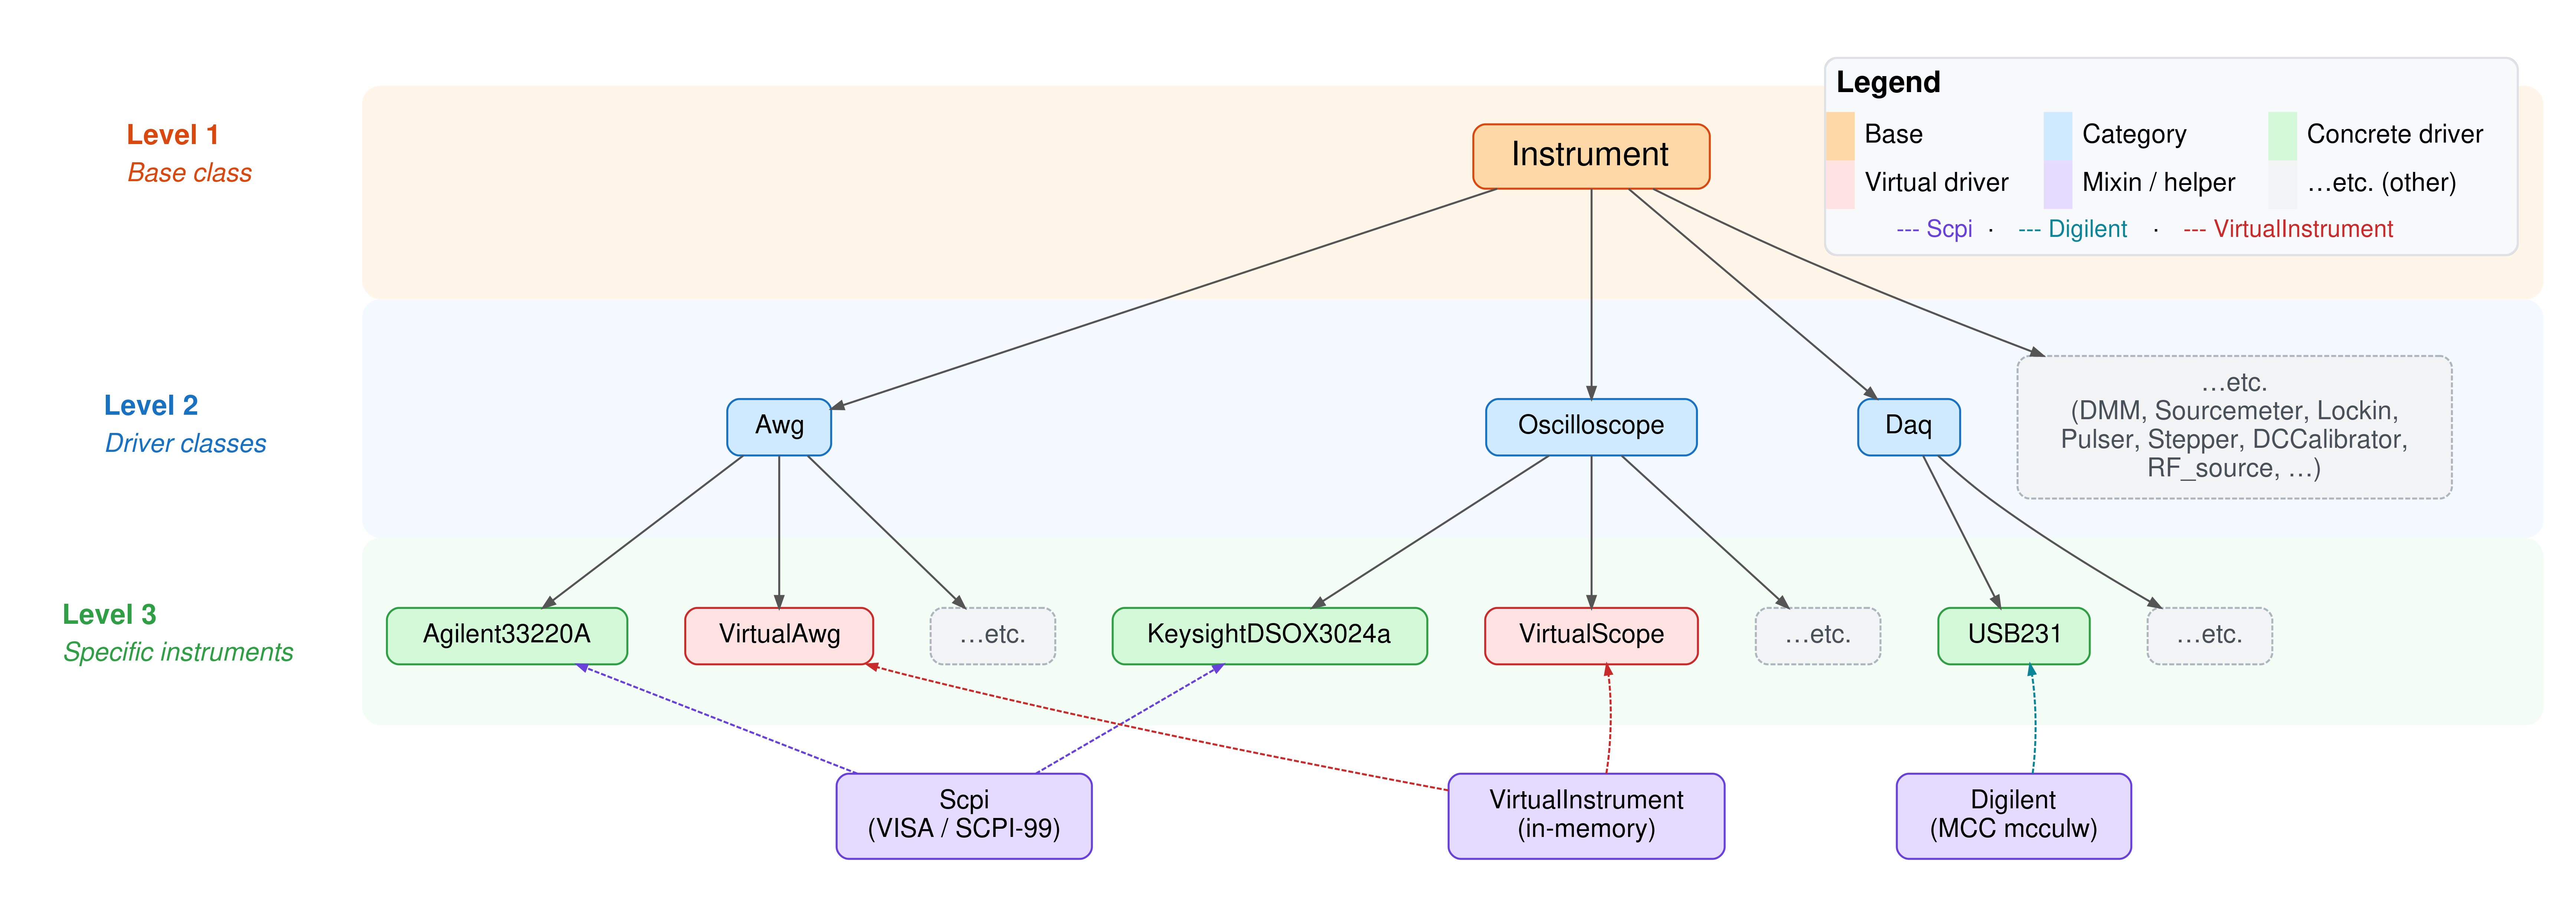
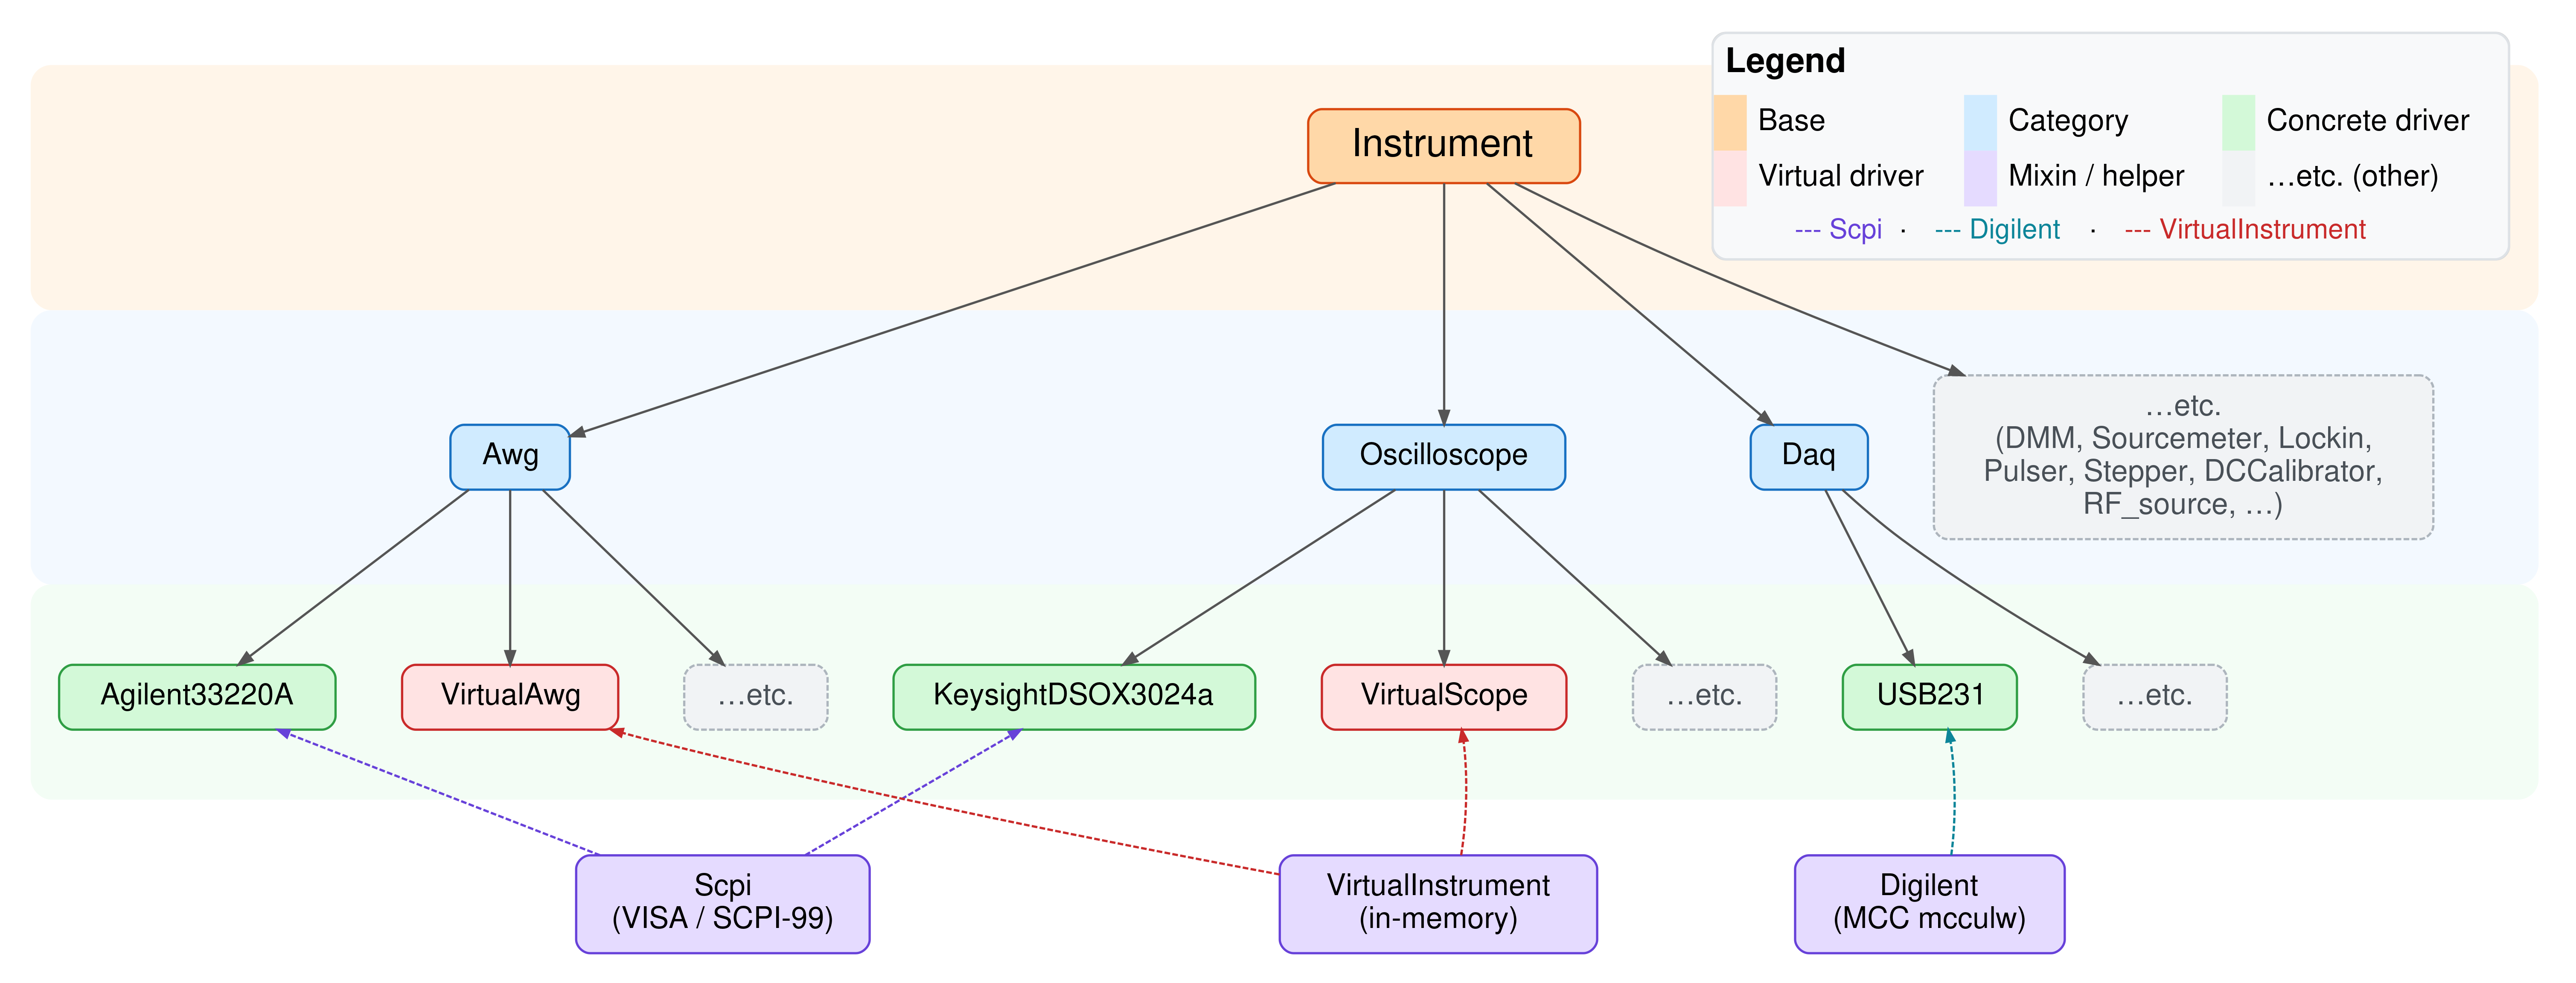
My final paper edits

diff --git a/paper.md b/paper.md
@@ -44,7 +44,7 @@ The common measurement workflow of a ferroelectric hysteresis loop highlights th
 
 # State of the Field
 
-The landscape of laboratory automation is dominated by commercial platforms such as LabVIEW [@LabVIEW], which are widely deployed across experimental physics and materials science laboratories. While powerful, these solutions rely on proprietary programming environments and require licenses, making them cost-restrictive, inflexible, and difficult to integrate with modern version-control and data-science workflows.
+The landscape of laboratory automation is dominated by commercial platforms such as LabVIEW [@LabVIEW], which are widely deployed across experimental laboratories. While powerful, these solutions rely on proprietary programming environments and require licenses, making them cost-restrictive, inflexible, and difficult to integrate with modern version-control and custom automated workflows.
 
 In the open-source ecosystem, several Python-based tools have emerged to address these limitations. General-purpose packages like PyMeasure [@PyMeasure_Developers_PyMeasure] and QCoDeS [@qcodes] provide extensive libraries of instrument wrappers, parameter validation, and sweep automation. Within specific subfields, targeted packages such as Hardware-Control [@Giesbrecht2022] and EKPY [@Parsonnet_ekpy] have been developed to handle automated testing and analysis for specific instrumentation, focusing on beamline and ferroelectric measurements respectively.
 
@@ -70,9 +70,9 @@ On top of this three-level standardized instrument control, within `piec.measure
 
 Finally, in the top-level Measurement repository, GUIs are provided using a class in ‘piec.measurement.gui_utils.py’ which leverages tkinter and Matplotlib [@hunter2007matplotlib], as well as python notebooks where the measurement and driver classes can be run directly. Useful background on measurements is included in the notebooks as well as markdown files in the same directory.
 
-The layered architecture means that a researcher can work at whatever level their experiment requires, whether that is coding driver methods for new setups, creating `Measurement` classes for running experiments, or using the pre-existing graphical interfaces for routine tasks without writing code. Throughout the workflow, standard Python packages such as NumPy [@harris2020array], and Pandas [@the_pandas_development_team_2026_19340003].
+The layered architecture means that a researcher can work at whatever level their experiment requires, whether that is coding driver methods for new setups, creating `Measurement` classes for running experiments, or using the pre-existing graphical interfaces for routine tasks without writing code. Standard Python packages such as NumPy [@harris2020array], and Pandas [@the_pandas_development_team_2026_19340003] are used throughout the workflow.
 
-In the case that an instrument isn't supported or a new measurement class is needed, extending `PIEC` only requires implementing a driver subclass alongside its `VirtualInstrument`, and adding a new experiment type requires implementing a `Measurement` subclass, without modifying other existing code.
+In the case that an instrument isn't supported or a new measurement class is needed, extending `PIEC` only requires implementing a driver subclass alongside its `VirtualInstrument`, or adding a new experiment type requires implementing a `Measurement` subclass, respectively, without modifying other existing code.
 
 The structured, template-driven design also enables robust integration with modern AI-assisted workflows. The directory for each instrument type contains a template class which contains every method and attribute, as well as detailed docstrings, but no implementation. Entirely new instruments can be quickly and seamlessly integrated into the codebase by providing the existing `example` driver template and the corresponding `DRIVER_DEVOLPMENT_GUIDE` as context to an LLM, and then manually stepping through provided debugging notebooks.
 
@@ -83,7 +83,7 @@ The structured, template-driven design also enables robust integration with mode
 `PIEC` lowers the barrier to building, modifying, and sharing automated experimental workflows by providing a standardized, open, and extensible interface for laboratory instrumentation. By abstracting hardware into consistent, type-defined components and encapsulating experimental procedures into reusable measurement classes, the software enables researchers to rapidly prototype and deploy complex experiments without rebuilding control infrastructure from scratch.
 This approach has immediate impact for experimental research groups, where time and resources are often constrained by fragmented software ecosystems and instrument-specific code. PIEC allows laboratories to redirect effort away from low-level integration and toward scientific questions, while improving reproducibility through structured data handling and standardized workflows.
 
-Importantly, PIEC also provides a foundation for emerging paradigms in automated and autonomous experimentation. Its consistent API and composable architecture allow direct integration with optimization algorithms, machine learning models, and AI agents that can design, execute, and analyze experiments in closed-loop workflows. Thus, not only does `PIEC` provide a rapid, easily-integrable test workflow for experimenters of all levels, it also serves as a bridge between physical laboratory systems and data-driven discovery methods, supporting the development of scalable, self-driving laboratories. The authors encourage feedback and discussion about the repository either through posts the issues tab on our GitHub page or through direct contact via email.
+Importantly, `PIEC` also provides a foundation for emerging paradigms in automated and autonomous experimentation. Its consistent API and composable architecture allow direct integration with optimization algorithms, machine learning models, and AI agents that can design, execute, and analyze experiments in closed-loop workflows. Thus, not only does `PIEC` provide a rapid, easily-integrable test workflow for experimenters of all levels, it also serves as a bridge between physical laboratory systems and data-driven discovery methods, supporting the development of scalable, self-driving laboratories. The authors encourage feedback and discussion about the repository either through posts the issues tab on our GitHub page or through direct contact via email.
 
 # AI Usage Disclosure
 